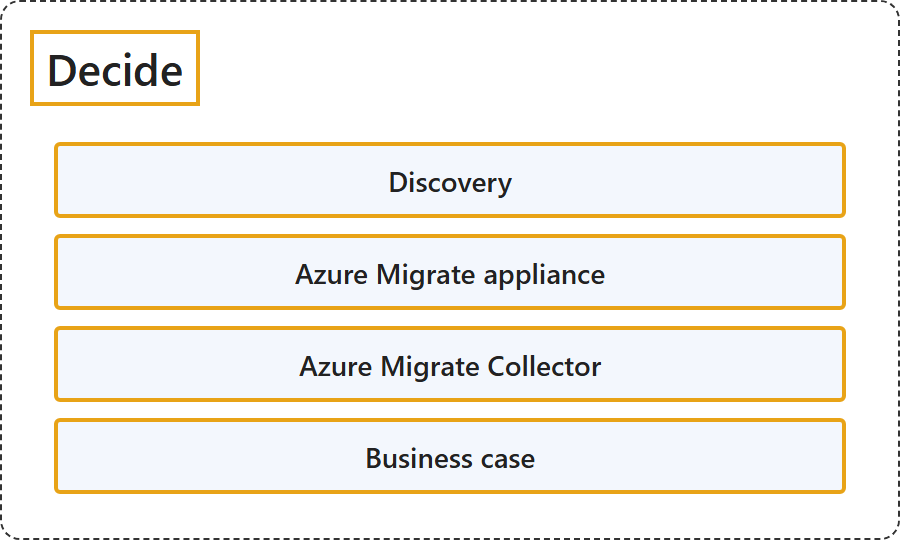
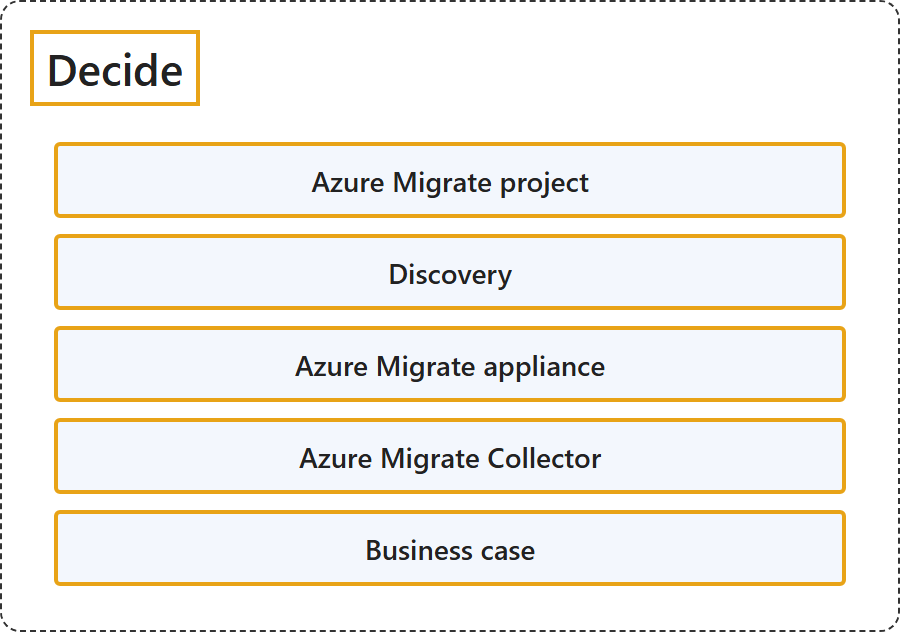
feat(azure): 24.2 Azure Migrate project, from the create-project quickstart

diff --git a/figures/cloud/azure/migration/decide.html b/figures/cloud/azure/migration/decide.html
@@ -18,6 +18,7 @@
   <div class="row">
     <div class="col">
       <div class="group" style="border:none;padding:0 12px 0 12px;">
+        <div class="item">Azure Migrate project</div>
         <div class="item">Discovery</div>
         <div class="item">Azure Migrate appliance</div>
         <div class="item">Azure Migrate Collector</div>

diff --git a/figures/cloud/azure/migration/migration.html b/figures/cloud/azure/migration/migration.html
@@ -33,6 +33,7 @@
     <div class="col">
       <div class="group">
         <div class="title">Decide</div>
+        <div class="item">Azure Migrate project</div>
         <div class="item">Discovery</div>
         <div class="item">Azure Migrate appliance</div>
         <div class="item">Azure Migrate Collector</div>

diff --git a/docs/cloud/azure/migration/decide.md b/docs/cloud/azure/migration/decide.md
@@ -1,22 +1,23 @@
 ---
 title: "24.2 Decide"
-description: "Microsoft Azure, 24.2 Decide: Discovery, Azure Migrate appliance, Azure Migrate Collector, Business case."
-ms.date: 2026-10-25
+description: "Microsoft Azure, 24.2 Decide: Azure Migrate project, Discovery, Azure Migrate appliance, Azure Migrate Collector, Business case."
+ms.date: 2026-10-26
 ---
 
 # 24.2 Decide
 
-Sources: [About Azure Migrate: Decide](https://learn.microsoft.com/en-us/azure/migrate/migrate-services-overview#decide).
+Sources: [About Azure Migrate: Decide](https://learn.microsoft.com/en-us/azure/migrate/migrate-services-overview#decide); [Quickstart: Create an Azure Migrate project using portal](https://learn.microsoft.com/en-us/azure/migrate/quickstart-create-project?view=migrate).
 
 ## Classification
 
-![Decide: Discovery, Azure Migrate appliance, Azure Migrate Collector, Business case.](media/decide.png)
+![Decide: Azure Migrate project, Discovery, Azure Migrate appliance, Azure Migrate Collector, Business case.](media/decide.png)
 
 ## Glossary
 
 | Term | Definition | 中文解释 | Source |
 |---|---|---|---|
 | **Decide**<br>决定 | "The first step in a migration journey is to **identify your workloads**. This process of identification is called **discovery**." | 迁移之旅的第一步是**识别你的工作负载**。这个识别过程称为**发现**。 | [Microsoft, n.d., "Decide" section, para. 1](https://learn.microsoft.com/en-us/azure/migrate/migrate-services-overview#:~:text=The%20first%20step%20in%20a%20migration%20journey%20is%20to%20identify%20your%20workloads) |
+| **Azure Migrate project**<br>Azure Migrate 项目 | "A project is used to **store discovery, assessment, and migration metadata** collected from the environment you're assessing or migrating. In a project, you can **track discovered assets**, **create assessments**, and **orchestrate migrations to Azure**." | 项目用于**存储发现、评估和迁移元数据**，这些元数据收集自你正在评估或迁移的环境。在项目中，你可以**跟踪已发现的资产**、**创建评估**，并**编排到 Azure 的迁移**。 | [Microsoft, 2026, para. 2](https://learn.microsoft.com/en-us/azure/migrate/quickstart-create-project?view=migrate#:~:text=A%20project%20is%20used%20to%20store%20discovery) |
 | **Discovery**<br>发现 | "This **process of identification** is called discovery. To discover your workloads, you can **deploy a lightweight Azure Migrate appliance** (recommended approach), **deploy Azure Migrate collector** or **quickly import the inventory data** for your workloads." | 这个**识别过程**称为发现。要发现你的工作负载，你可以**部署轻量级 Azure Migrate 设备**（推荐方式）、**部署 Azure Migrate 收集器**，或者**快速导入工作负载的清单数据**。 | [Microsoft, n.d., "Decide" section, para. 1](https://learn.microsoft.com/en-us/azure/migrate/migrate-services-overview#:~:text=This%20process%20of%20identification%20is%20called%20discovery) |
 | **Azure Migrate appliance**<br>Azure Migrate 设备 | "The Azure Migrate appliance is a **virtual appliance** that can be deployed on a **server in your datacenter**. The appliance collects the **configuration and performance data** for your servers and continually sends it to the Azure Migrate service." | Azure Migrate 设备是一种**虚拟设备**，可以部署在**你数据中心的服务器**上。该设备收集服务器的**配置和性能数据**，并持续发送到 Azure Migrate 服务。 | [Microsoft, n.d., "Decide" section, para. 2](https://learn.microsoft.com/en-us/azure/migrate/migrate-services-overview#:~:text=The%20Azure%20Migrate%20appliance%20is%20a%20virtual%20appliance) |
 | **Azure Migrate Collector**<br>Azure Migrate 收集器 | "Azure Migrate Collector enables a **quick snapshot discovery** of your on-premises environment **without requiring continuous Azure connectivity**." | Azure Migrate 收集器可对本地环境进行**快速快照式发现**，**无需持续连接 Azure**。 | [Microsoft, n.d., "Decide" section, "Azure Migrate Collector", para. 1](https://learn.microsoft.com/en-us/azure/migrate/migrate-services-overview#:~:text=enables%20a%20quick%20snapshot%20discovery) |
@@ -24,4 +25,5 @@ Sources: [About Azure Migrate: Decide](https://learn.microsoft.com/en-us/azure/m
 
 ## References
 
-Microsoft. (n.d.). *About Azure Migrate*. Microsoft Learn. Retrieved October 18, 2026, from <https://learn.microsoft.com/en-us/azure/migrate/migrate-services-overview>
+- Microsoft. (n.d.). *About Azure Migrate*. Microsoft Learn. Retrieved October 18, 2026, from <https://learn.microsoft.com/en-us/azure/migrate/migrate-services-overview>
+- Microsoft. (2026, May 20). *Quickstart: Create an Azure Migrate project using portal*. Microsoft Learn. <https://learn.microsoft.com/en-us/azure/migrate/quickstart-create-project?view=migrate>

diff --git a/docs/cloud/azure/migration/README.md b/docs/cloud/azure/migration/README.md
@@ -7,8 +7,8 @@ Follows `../README.md`. Figure on `index.md`: classification (see `../README.md`
 | No. | File | Title (group name in the figure) | Sources | Allowed sections (the groups of the sub-page figure, in figure order) |
 |---|---|---|---|---|
 | 24.1 | `migration-strategies.md` | Migration strategies | [Select your cloud migration strategies](https://learn.microsoft.com/en-us/azure/cloud-adoption-framework/plan/select-cloud-migration-strategy) | 24.1.1 Retire, 24.1.2 Rehost, 24.1.3 Replatform, 24.1.4 Refactor, 24.1.5 Rearchitect, 24.1.6 Replace, 24.1.7 Rebuild, 24.1.8 Retain |
-| 24.2 | `decide.md` | Decide | [About Azure Migrate: Decide](https://learn.microsoft.com/en-us/azure/migrate/migrate-services-overview#decide) | 24.2.1 Discovery, 24.2.2 Azure Migrate appliance, 24.2.3 Azure Migrate Collector, 24.2.4 Business case |
+| 24.2 | `decide.md` | Decide | [About Azure Migrate: Decide](https://learn.microsoft.com/en-us/azure/migrate/migrate-services-overview#decide); [Quickstart: Create an Azure Migrate project using portal](https://learn.microsoft.com/en-us/azure/migrate/quickstart-create-project?view=migrate) | 24.2.1 Azure Migrate project, 24.2.2 Discovery, 24.2.3 Azure Migrate appliance, 24.2.4 Azure Migrate Collector, 24.2.5 Business case |
 | 24.3 | `plan.md` | Plan | [About Azure Migrate: Plan](https://learn.microsoft.com/en-us/azure/migrate/migrate-services-overview#plan); [Assessment overview (migrate to Azure VMs)](https://learn.microsoft.com/en-us/azure/migrate/concepts-assessment-calculation?view=migrate-classic) | 24.3.1 Assessment, 24.3.2 Azure readiness (24.3.2.1 Ready for Azure, 24.3.2.2 Conditionally ready for Azure, 24.3.2.3 Not ready for Azure, 24.3.2.4 Readiness unknown), 24.3.3 Right-sizing, 24.3.4 Azure cost estimation, 24.3.5 Dependency analysis |
 | 24.4 | `execute.md` | Execute | [About Azure Migrate: Execute](https://learn.microsoft.com/en-us/azure/migrate/migrate-services-overview#execute) | 24.4.1 Azure Migrate, 24.4.2 Azure Migrate and Modernize, 24.4.3 Agentless migration, 24.4.4 Agent-based migration, 24.4.5 Azure Database Migration Service, 24.4.6 Data Migration Assistant, 24.4.7 Azure App Service Migration Assistant, 24.4.8 Azure Data Box |
 
-Azure Migrate as a whole is defined here (24.4.1; 8.4.1 links here). Azure Data Box is defined in `../storage/` (8.4.2); 24.4.8 links there. Total cost of ownership is defined in 20.1.1; 24.2.4 links there. The Cloud Adoption Framework's own phases are 18. The CST8913 rehost and refactor processes are process figures on 24.4.
+Azure Migrate as a whole is defined here (24.4.1; 8.4.1 links here). Azure Data Box is defined in `../storage/` (8.4.2); 24.4.8 links there. Total cost of ownership is defined in 20.1.1; 24.2.5 links there. The Cloud Adoption Framework's own phases are 18. The CST8913 rehost and refactor processes are process figures on 24.4.
